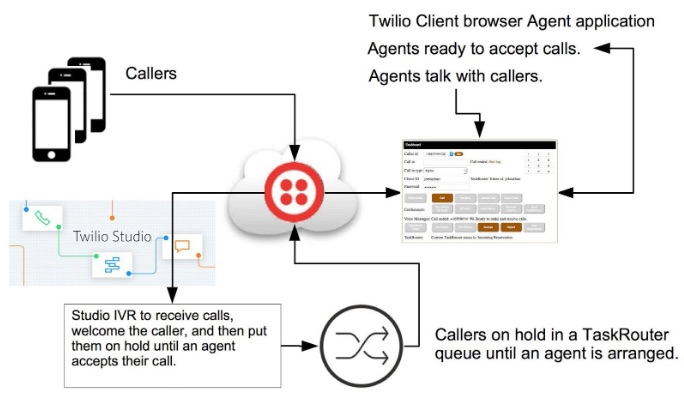
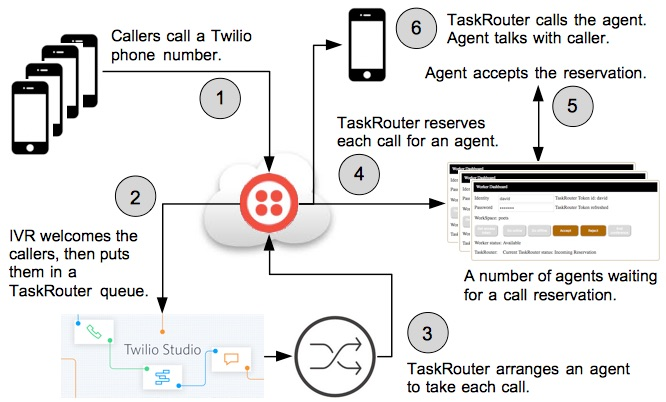
updates

Changed region(s): [[0.0, 0.0, 0.991, 1.0]]

diff --git a/README.md b/README.md
@@ -1,6 +1,6 @@
 # TaskRouter Worker Application Version 3.2
 
-This application is used by TaskRouter workers to manage their status and reservations.
+This application is used by Twilio TaskRouter workers to manage their status and reservations.
 
 ## Functionality
 
@@ -21,7 +21,7 @@ Worker application screen:
 
 ## Steps to Implement a TaskRouter Workflow System
 
-1. Configure your TaskRouter Workspace.
+1. Configure your Twilio TaskRouter Workspace.
 2. Create a Studio flow to put incoming callers into the TaskRouter queue.
 3. Configure your Twilio phone number to use the Studio flow.
 4. Deploy the TaskRouter Worker application and set the environment variables.
@@ -137,7 +137,7 @@ In your browser, go to your TaskRouter Workers Application.
 - Click Go online, and Go offline, to see how you set your availability.
 - Click Go online.
 
-<img src="Tiger_Agent.jpg" width="300"/>
+<img src="TR_WorkerAr.jpg" width="300"/>
 
 Call your IVR Twilio phone number and be put into your TaskRouter queue.
 - In your TaskRouter Workers Application, Accept and Reject options are highlighted.
